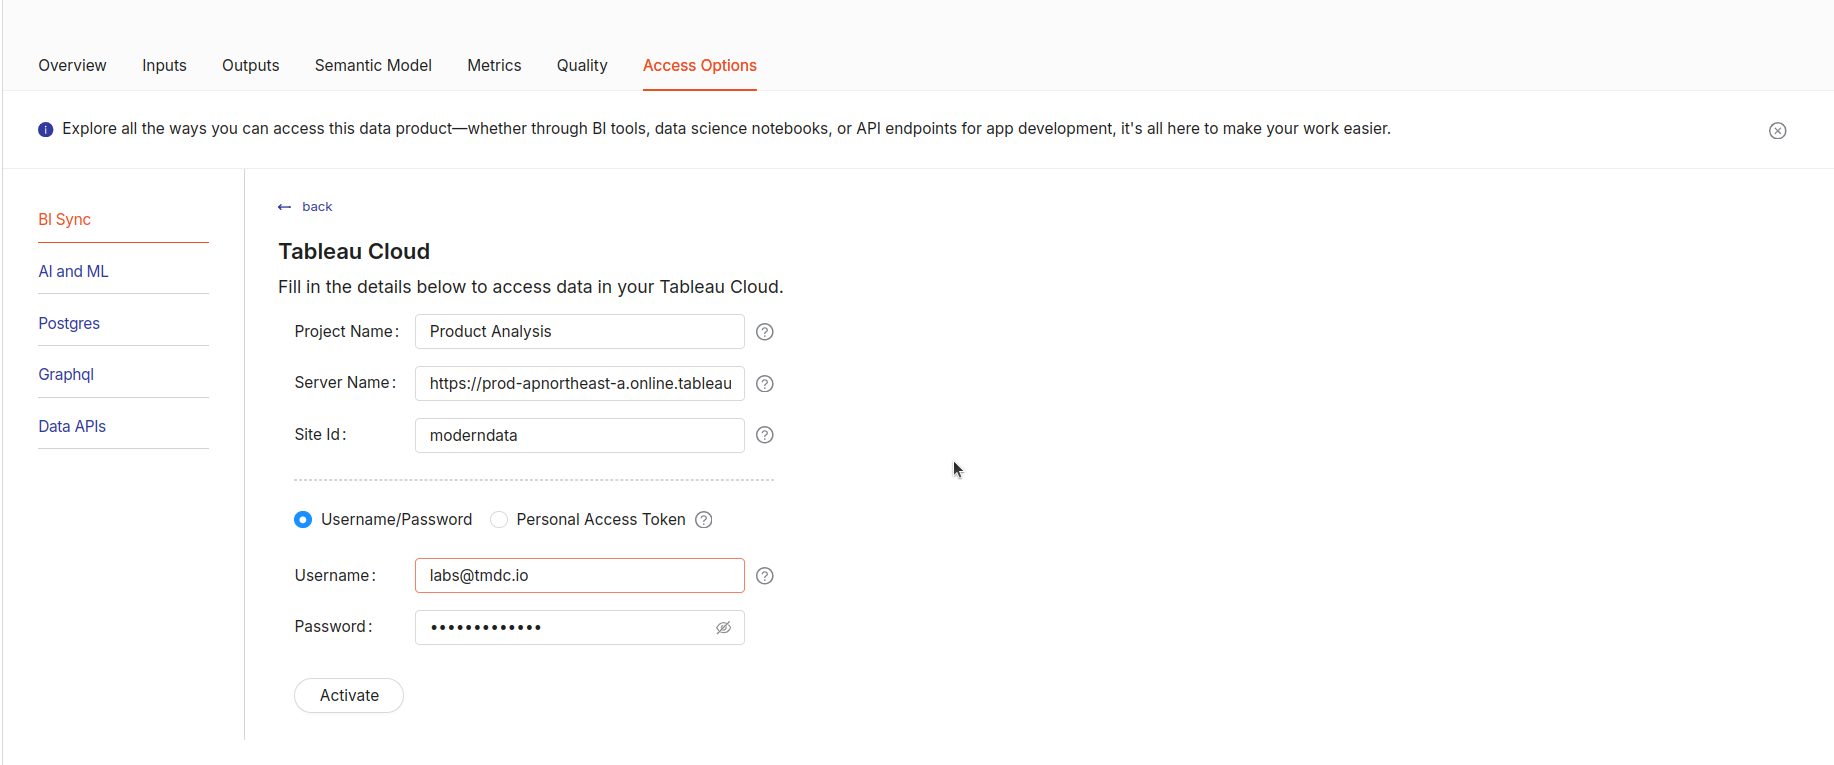
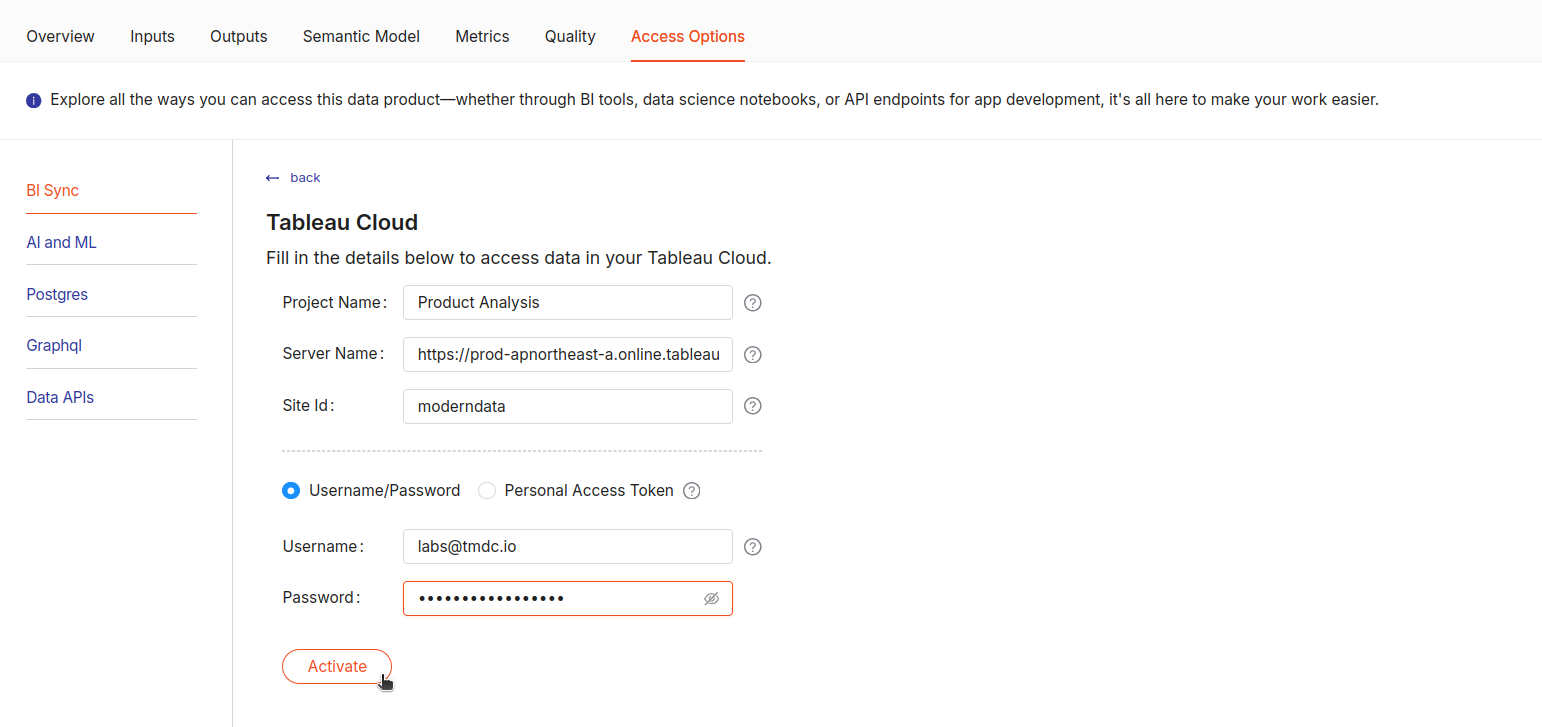
tableau image update

diff --git a/docs/interfaces/data_product_hub/activation/bi_sync/tableau_cloud.md b/docs/interfaces/data_product_hub/activation/bi_sync/tableau_cloud.md
@@ -18,9 +18,9 @@ Browse through the list of available Data Products. Select a specific Data Produ
 <img src="/interfaces/data_product_hub/activation/bi_sync/Tableau/Tableau0.png" alt="DPH" style="width:40rem; border: 1px solid black;" />
 </center>
 
-### **Step 3: Access Integration options**
+### **Step 3: Navigate to the Access Options**
 
-After selecting a Data Product, navigate to the **BI Sync** option in the **Access Options** tab. Scroll through the BI Sync and locate the **Tableau Cloud Connection** option. Now, Click on the **Add Connection** button
+After selecting a Data Product, navigate to the **BI Sync** option in the **Access Options** tab. Scroll through the BI Sync and locate the **Tableau Cloud** option. Now, Click on the **Add Connection** button
 
 <center>
 <img src="/interfaces/data_product_hub/activation/bi_sync/Tableau/Tableau1.png" alt="DPH" style="width:40rem; border: 1px solid black;" />
@@ -36,8 +36,8 @@ A connection window will open, prompting the entry of the necessary connection d
 
 #### Connection details for connecting via Tableau username and password
 
-- **Project**: Enter the Tableau project name. If not provided, the project name will default to the Data Product Name, registering all data sources under this project. Although, providing a custom project name enhances organization within Tableau.
-- **Server Address**: The address of the Tableau server (e.g., `https://prod-apnortheast-a.online.tableau.com`).
+- **Project Name**: Enter the Tableau project name. If Tableau project already don't exist, a new project with the given name will be created. Also, if project name not provided, the project name will default to the Data Product name, registering all data sources under this project. Although, providing a custom project name enhances organization within Tableau.
+- **Server Name**: The address of the Tableau server (e.g., `https://prod-apnortheast-a.online.tableau.com`).
 - **Site ID**: The site ID (e.g., `tableausuer@123`).
 - **Username**: The Tableau username.(e.g., `labs@tmdc.io`)
 - **Password**: The password associated with the Tableau account.
@@ -52,15 +52,15 @@ These details can be obtained upon logging into Tableau. The URL format will app
 
 In this example, `tableuuser@123` represents the **site_id**.
 
-After entering the required credentials, click the **Activate Key** button to establish the connection. A confirmation message will appear upon successful connection.  
+After entering the required credentials, click the **Activate** button to establish the connection. A confirmation message will appear upon successful connection.  
 
 <center>
-<img src="/interfaces/data_product_hub/activation/bi_sync/Tableau/Tableau2.png" alt="DPH" style="width:40rem; border: 1px solid black;" />
+<img src="/interfaces/data_product_hub/activation/bi_sync/Tableau/Tableau3.png" alt="DPH" style="width:40rem; border: 1px solid black;" />
 </center>
 
 #### Connection details for connecting using Tableau PAT
 
-In addition to using standard Tableau credentials, users can also opt to use Personal Access Tokens (PAT) for authentication. To create a PAT in the Tableau follow the instructions given on [this link](https://help.tableau.com/current/online/en-us/security_personal_access_tokens.htm)
+In addition to using standard Tableau credentials, users can also opt to use Personal Access Tokens (PAT) for authentication. To create a PAT in the Tableau follow the instructions given on [this link](https://help.tableau.com/current/online/en-us/security_personal_access_tokens.htm).
 
 After successfully creating the PAT, follow the same steps as of connection details for the Tableau username and password and enter the connection details:
 
@@ -70,9 +70,7 @@ After successfully creating the PAT, follow the same steps as of connection deta
 - **Username**: Tableau PAT Name. (e.g., `iamgroot`, `test_token`)
 - **Password**: Personal Access Token.
 
-enter the connection details as following:
-
-Now, click on the Acitvate button. A confirmation message will appear upon successful connection.  
+After filling all details, click on the Acitvate button. A confirmation message will appear upon successful connection.  
 
 <center>
 <img src="/interfaces/data_product_hub/activation/bi_sync/Tableau/Tableau4.png" alt="DPH" style="width:40rem; border: 1px solid black;" />
